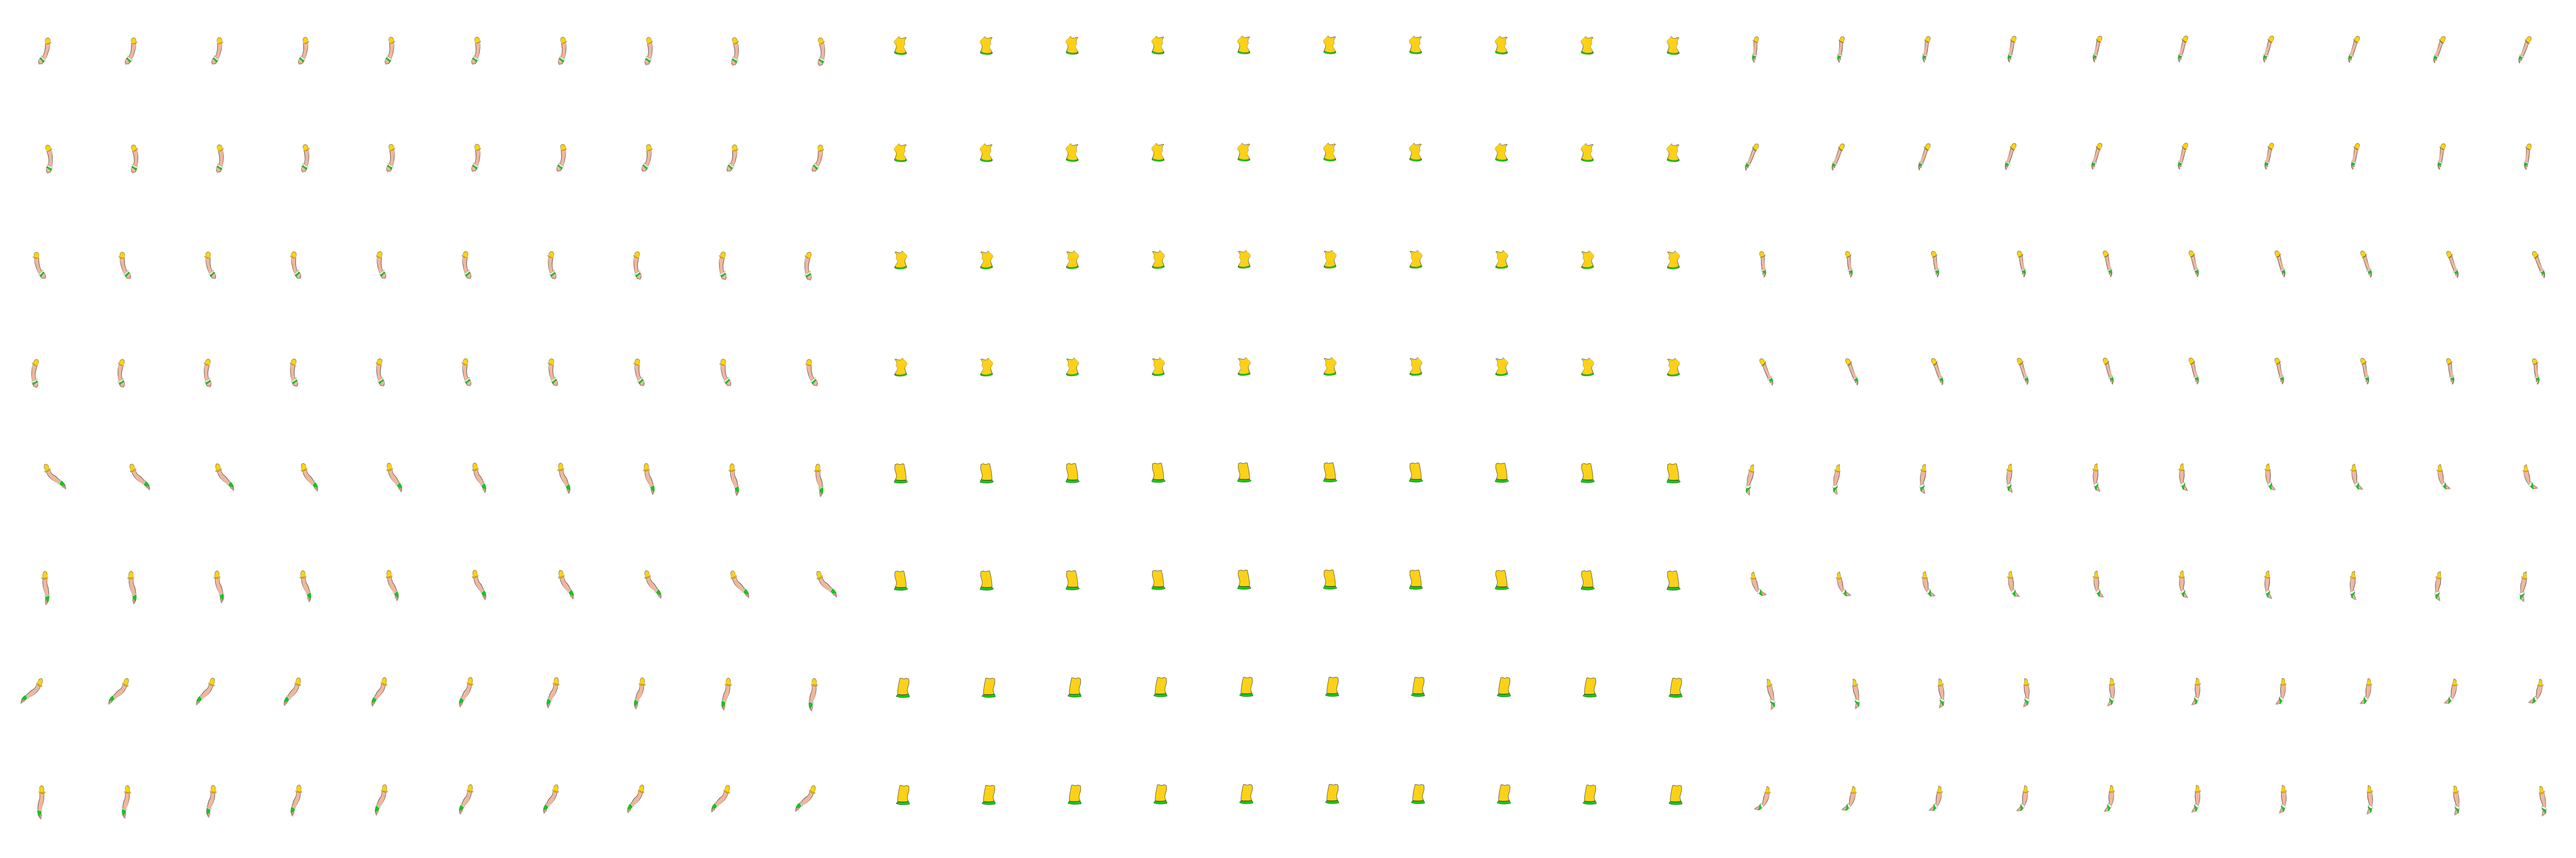
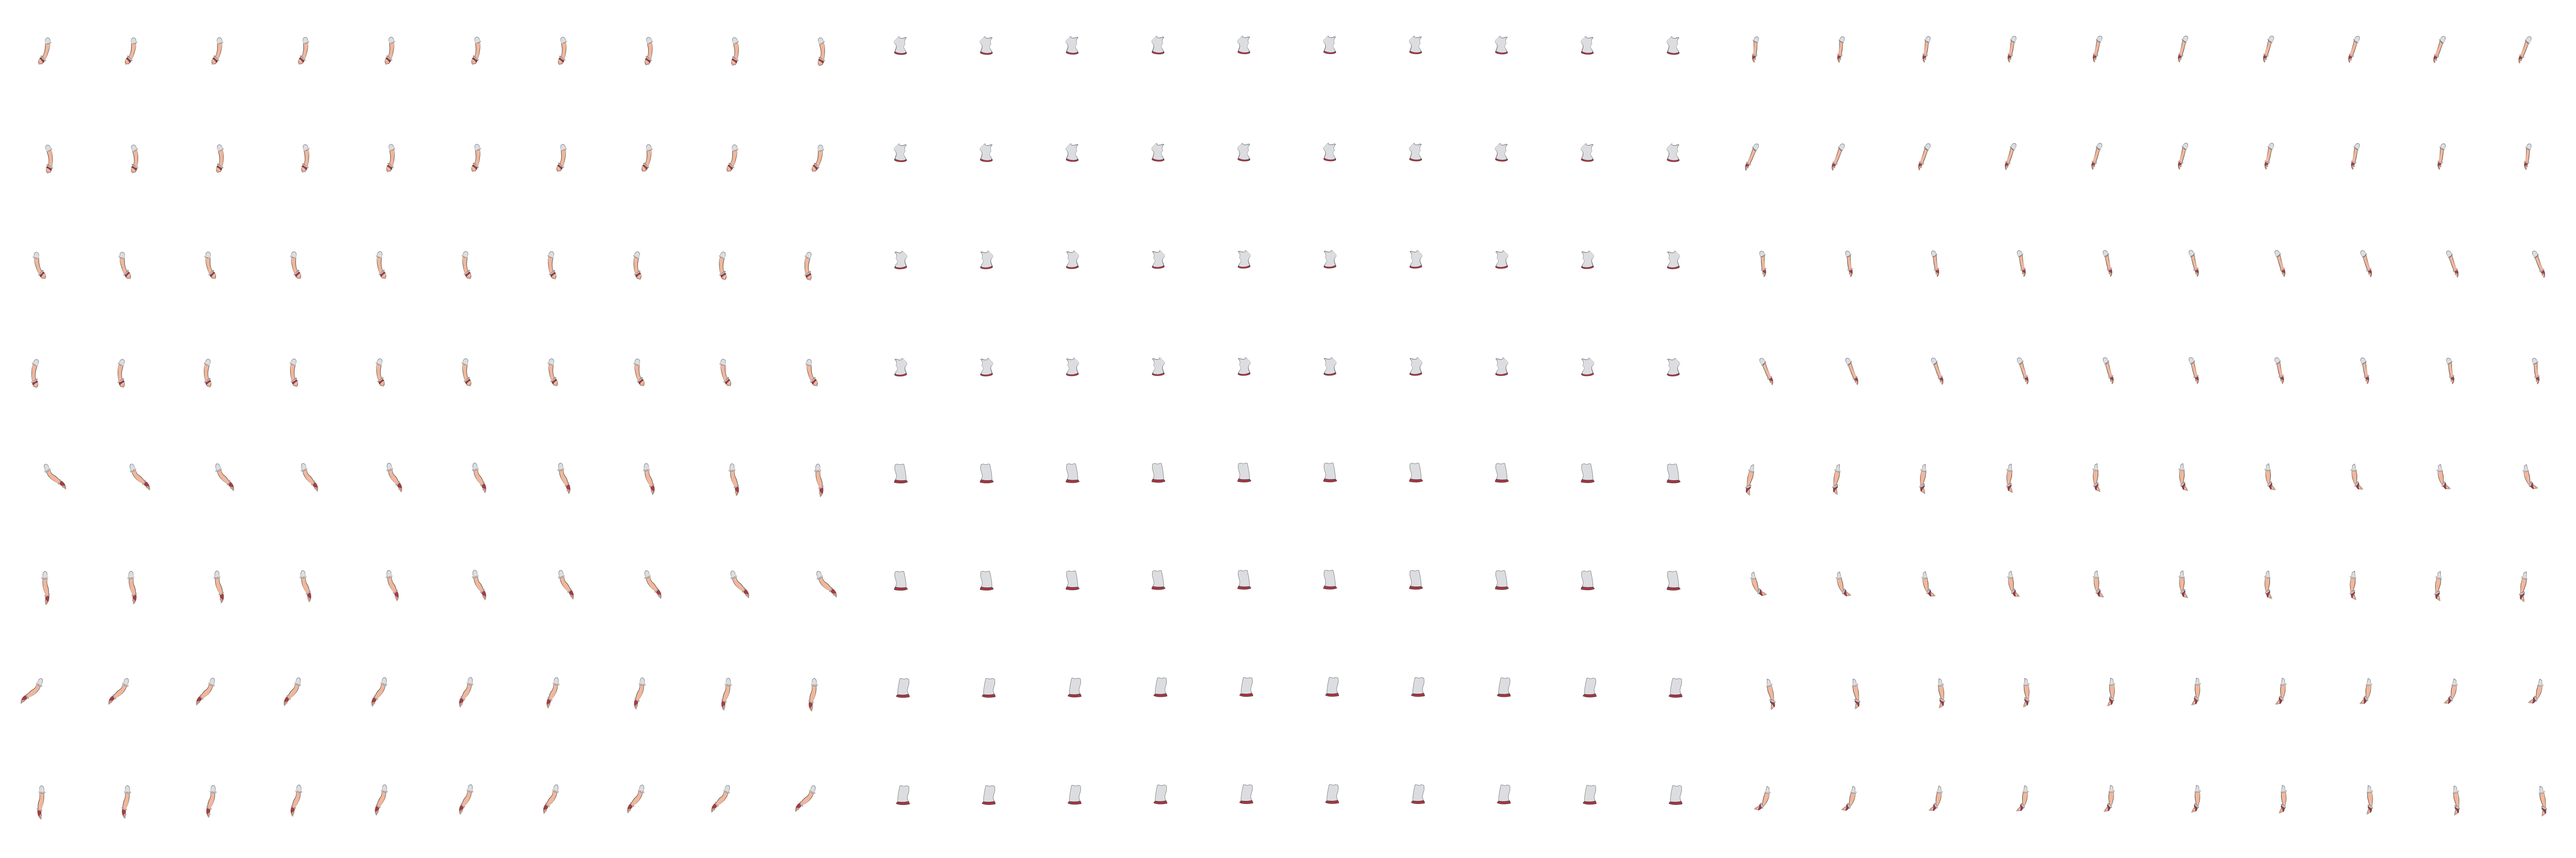
fix player movement and randomnez

diff --git a/game/TestScene.ts b/game/TestScene.ts
@@ -156,10 +156,15 @@ export class PlayerBuilder {
   constructor(scene: RPG) {
     this.scene = scene;
     this.container = this.scene.add.container(0, 0);
-    // this.headSelected = Math.random() < 0.5 ? "01" : "02";
-    console.log(this.headSelected, "HEAD SELECTED")
-    this.scene.UIContainer?.avatar?.setHead(this.headSelected);
+    // this.scene.UIContainer?.avatar?.setHead(this.headSelected);
+    const options = ["01","02"];
+    const randomBetween01 = () => options[Math.floor(Math.random() * options.length)];
+    
 
+    this.torsoSelected = randomBetween01();
+    this.headSelected = randomBetween01();
+    this.legsSelected = randomBetween01();
+    
     const { torso, leftHand, rightHand, head, legs } = this.buildPlayer(this.torsoSelected, this.torsoSelected, this.torsoSelected, this.headSelected, this.legsSelected);
     
     
@@ -184,7 +189,9 @@ export class PlayerBuilder {
     // this.buildPlayer = this.buildPlayer.bind(this);
     // this.selectMovement(PossibleMovements.LEFT1);
   }
-
+  getHeadSelected() {
+    return this.headSelected || "01";
+  }
   getPlayerParts() {
     return {
       torso: this.torso,
@@ -248,7 +255,6 @@ export class PlayerBuilder {
 
 
   buildPlayer(leftHandSelected: string = "01", torsoSelected: string = "01", rightHandSelected: string = "01", headSelected: string = "01", legsSelected: string = "01") {
-    console.log(this.headSelected, "HEAD SELECTED 2")
     const obj = {
       legs: this.selectLegs(legsSelected),
       torso: this.selectTorso(torsoSelected),
@@ -285,7 +291,7 @@ export class PlayerBuilder {
     if (this.torso) this.torso.destroy();
     this.torsoSelected = torsoSelected;
     const torso = this.scene.add
-      .sprite(0, 0, "torso-" + this.torsoSelected, 0)
+      .sprite(0, 0, "torso-" + this.torsoSelected, 10)
       // .setScale(1.4)
       .setOrigin(0.5);
 
@@ -298,7 +304,7 @@ export class PlayerBuilder {
     if (this.rightHand) this.rightHand.destroy();
     this.torsoSelected = rightHandSelected;
     const rightHand = this.scene.add
-      .sprite(0, 0, "torso-" + this.torsoSelected, 0)
+      .sprite(0, 0, "torso-" + this.torsoSelected, 20)
       // .setScale(1.4)
       .setOrigin(0.5);
     this.rightHand = rightHand;

diff --git a/game/Assets/rpgIsoPlayerPrincipal.ts b/game/Assets/rpgIsoPlayerPrincipal.ts
@@ -11,7 +11,7 @@ export type PositionMatrix = {
 export class RpgIsoPlayerPrincipal extends RpgIsoSpriteBox {
   direction: string = "s";
   group?: Phaser.GameObjects.Group;
-  velocity: number = 2;
+  velocity: number = 4;
   name: string;
   isMoving: boolean = false;
   facingDirection: string = "s";
@@ -20,6 +20,7 @@ export class RpgIsoPlayerPrincipal extends RpgIsoSpriteBox {
   distanceBetweenFloors: number
   playerBuilder: PlayerBuilder;
   lastDirection: string = "s";
+  step: 0 | 1 = 0;
 
   constructor(
     scene: RPG,
@@ -62,7 +63,7 @@ export class RpgIsoPlayerPrincipal extends RpgIsoSpriteBox {
 
     this.playerBuilder.getContainer().setPosition(this.self.x, this.self.y, this.self.z);
     this.playerBuilder.getContainer().setDepth(this.customDepth || this.self.depth);
-
+    this.self?.setAlpha(0);
     
     //@ts-ignore
     // const head01 = new Phaser.GameObjects.Text(this, 600, 50, "NORMAL HEAD", { fill: "#0f0" });
@@ -580,7 +581,6 @@ export class RpgIsoPlayerPrincipal extends RpgIsoSpriteBox {
     this.self.play("idle-" + this.direction);
     this.self.play("walk-" + direction);
 
-
     // trasnform direction into possibleMovement
     const pm = {
       n: PossibleMovements.TOP1,
@@ -594,8 +594,16 @@ export class RpgIsoPlayerPrincipal extends RpgIsoSpriteBox {
       e: PossibleMovements.RIGHT2,
       w: PossibleMovements.LEFT2
     }
-    //@ts-ignore
-    this.playerBuilder.selectMovement(pm[direction]);
+    if(this.step == 0) {
+      //@ts-ignore
+      this.playerBuilder.selectMovement(pm[direction]);
+      this.step = 1;
+    } else {
+      //@ts-ignore
+      this.playerBuilder.selectMovement(pm2[direction]);
+      this.step = 0;
+    }
+
 
     this.facingDirection = direction;
     if (this.matrixPosition) {
@@ -622,6 +630,7 @@ export class RpgIsoPlayerPrincipal extends RpgIsoSpriteBox {
 
     this.playerBuilder.getContainer().setPosition(this.self.x, this.self.y, this.self.z);
     this.playerBuilder.getContainer().setDepth(this.customDepth || this.self.depth);
+    this.playerBuilder.getContainer().setScale(this.self.scaleX, this.self.scaleY);
 
     if (cursors && !this.isMoving) {
       const { up, down, left, right } = cursors;

diff --git a/game/Loader/AssetsLoader.ts b/game/Loader/AssetsLoader.ts
@@ -21,7 +21,25 @@ const loadAssets = {
       }],
 
       ["assetWithCallback", (scene: Phaser.Scene) => {
+        scene.load.spritesheet("torso-02", "/images/player/02/walkBrazosTorso.png", {
+          frameWidth: 200,
+          frameHeight: 250,
+          startFrame: 0,
+          endFrame: 232
+        });
+      }],
+
+      ["assetWithCallback", (scene: Phaser.Scene) => {
         scene.load.spritesheet("legs-01", "/images/player/01/walkLegs.png", {
+          frameWidth: 200,
+          frameHeight: 250,
+          startFrame: 0,
+          endFrame: 200
+        });
+      }],
+
+      ["assetWithCallback", (scene: Phaser.Scene) => {
+        scene.load.spritesheet("legs-02", "/images/player/02/walkLegs.png", {
           frameWidth: 200,
           frameHeight: 250,
           startFrame: 0,

diff --git a/game/rpg.ts b/game/rpg.ts
@@ -225,7 +225,11 @@ export default class RPG extends Scene {
       window.innerHeight
     );
     this.UICamera.ignore(this.isoGroup);
-    if(this.player) this.UICamera.ignore(this.player.playerBuilder.getContainer());
+    if(this.player) {
+      this.UICamera.ignore(this.player.playerBuilder.getContainer());
+      this.UIContainer?.avatar?.setHead(this.player?.playerBuilder.getHeadSelected());
+    }
+
 
     const forestContainers = this.forest.map((arbolito) => arbolito.container);
     this.UICamera.ignore(forestContainers);

diff --git a/game/Assets/UIAssetsChicken/UIAssets.ts b/game/Assets/UIAssetsChicken/UIAssets.ts
@@ -110,7 +110,11 @@ export class Avatar extends Phaser.GameObjects.Container {
   }
 
   setHead(avatar: string) {
-    this.avatar.setTexture(avatar === "01" ? 'avatar2' : 'avatar1')
+    const headMap = {
+      "01": "avatar1",
+      "02": "avatar2"
+    }
+    this.avatar.setTexture(headMap[avatar] ?? 'avatar1')
   }
 
   updateValues(data: globalState) {
